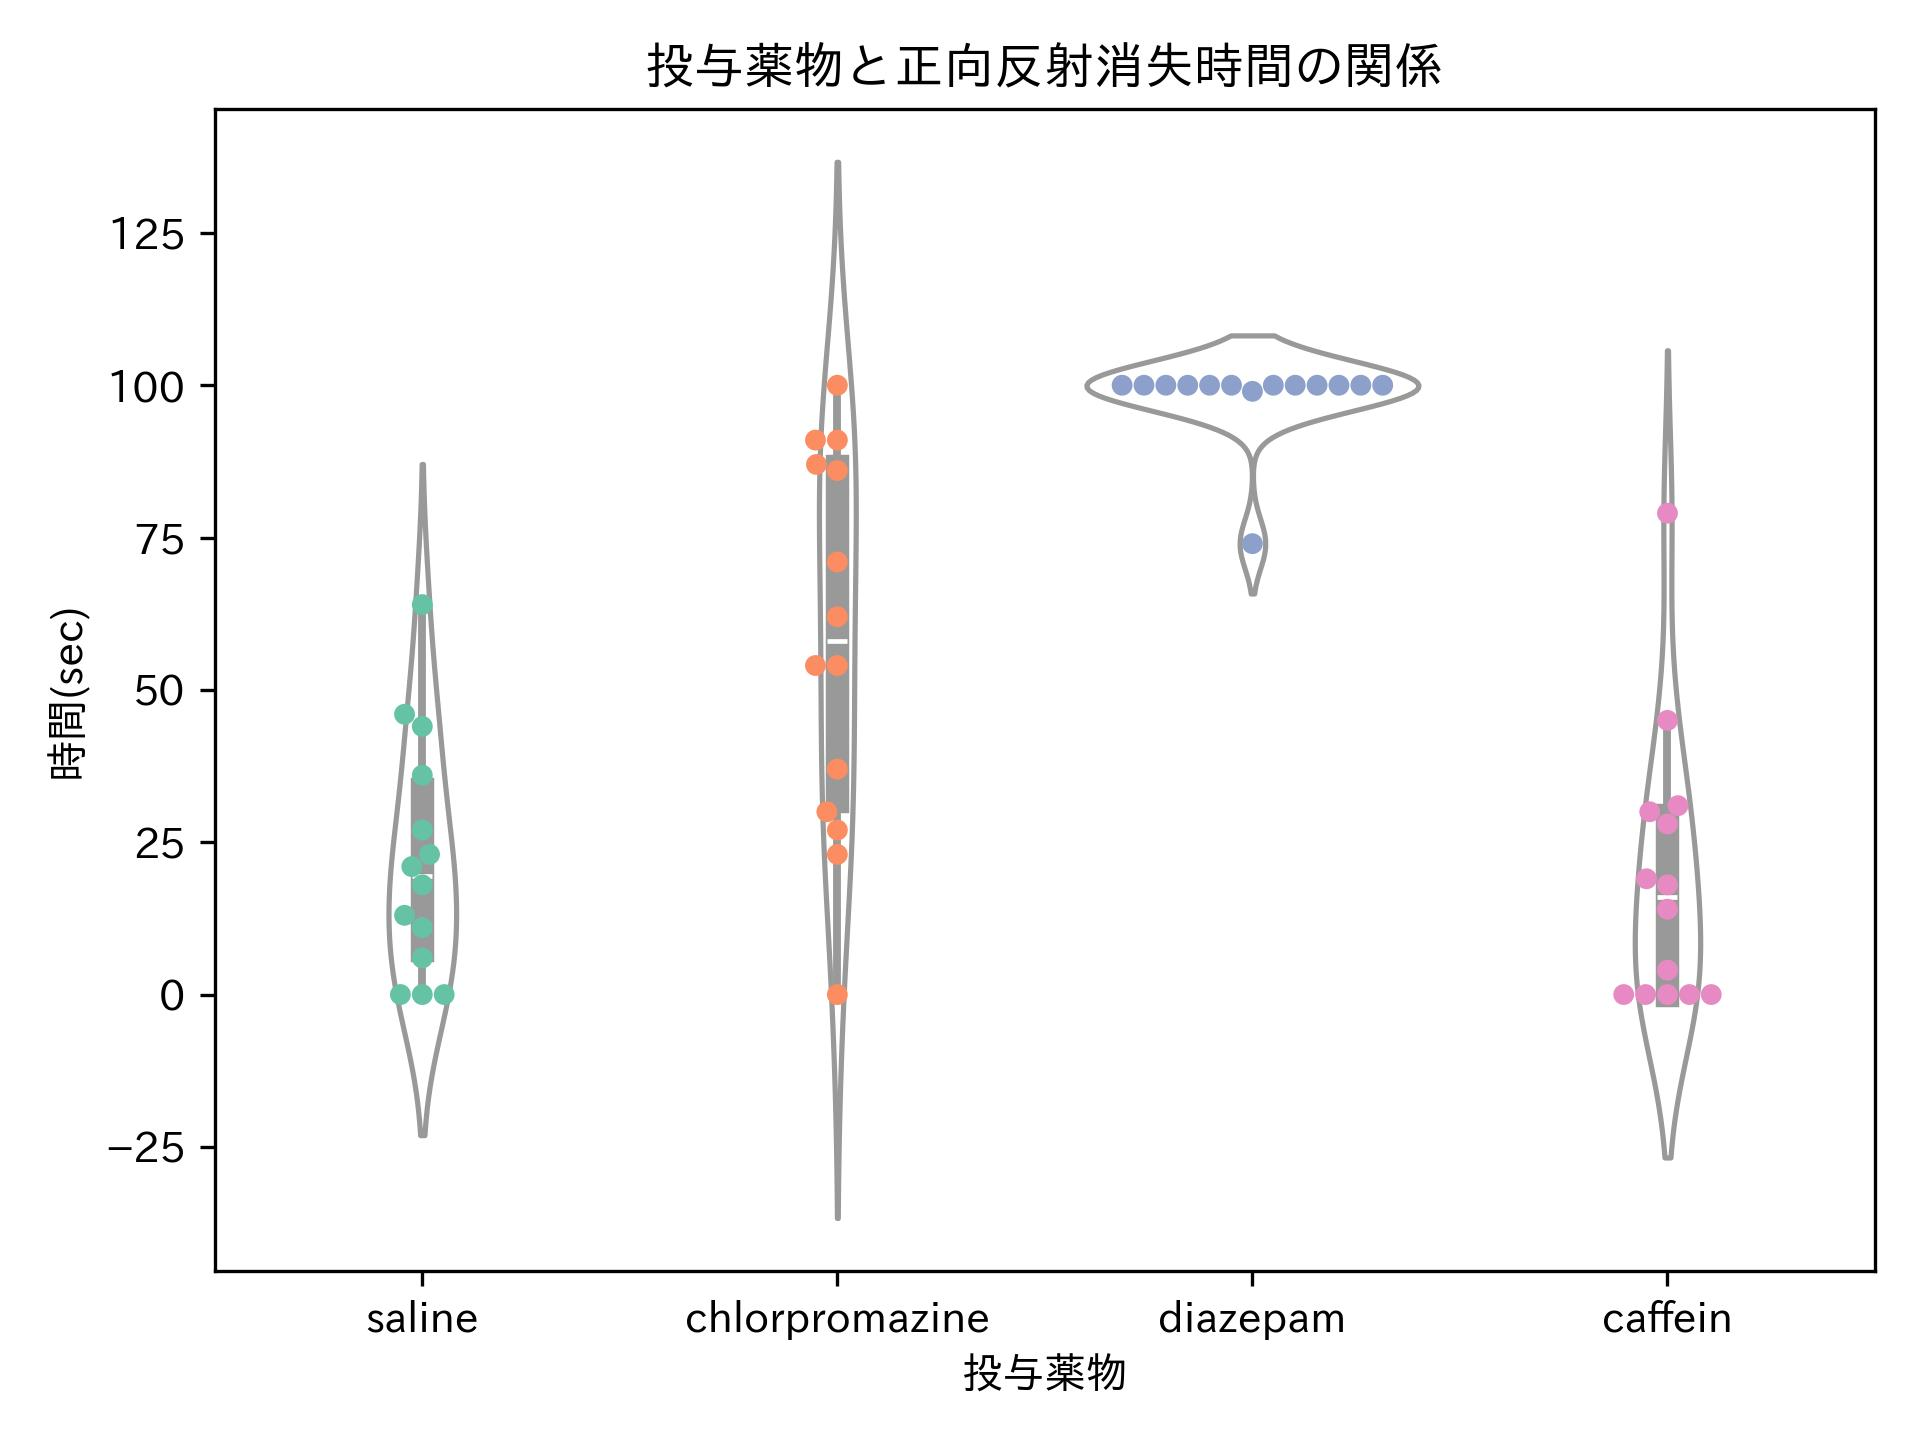
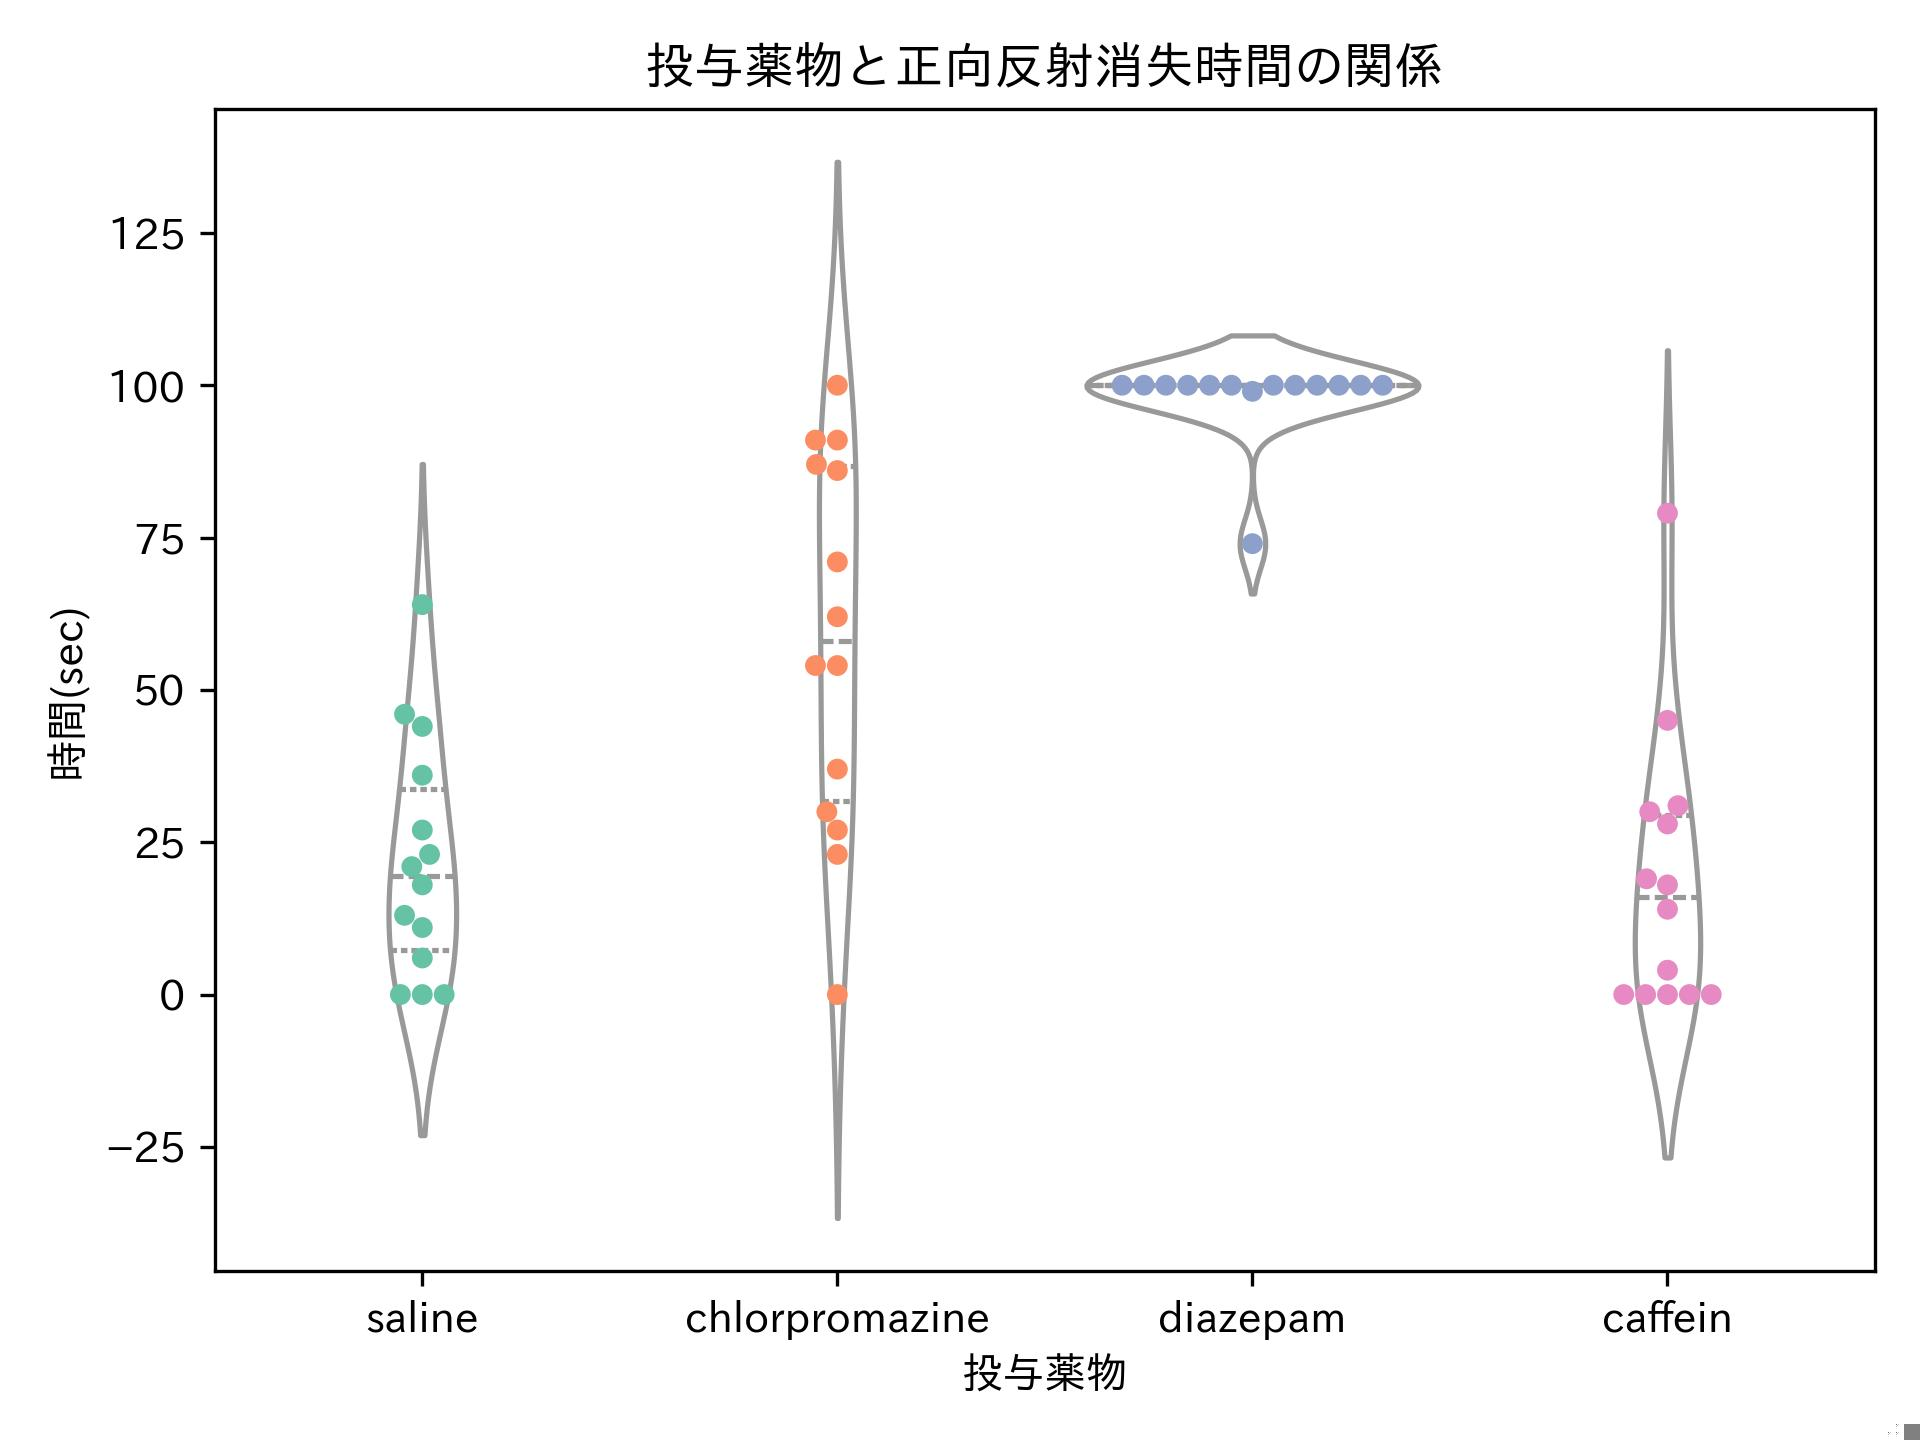
Changes

diff --git a/tools/exp1.py b/tools/exp1.py
@@ -8,8 +8,8 @@ warnings.simplefilter("ignore")
 
 input = "/Users/kotaro/PycharmProjects/yakusaku_kodo/input/"
 df = pd.read_csv(input + "data_yakusaku_gakusyu.csv").drop('group_num', axis=1)
-# output = "/Users/kotaro/Desktop/yakusaku_output/"
-output = "./output/"
+output = "/Users/kotaro/Desktop/yakusaku_output/"
+# output = "./output/"
 
 def make_label_value(df):
     labels = {}
@@ -43,22 +43,29 @@ def make_dict(df):
     return ret
 
 
-def graph_all(df):
+def graph_all(df, datatype=sns.violinplot):
     dict = make_dict(df)
-    cnt = 0
-    lab = ["獲得","固定","再生"]
-    fig = plt.figure(figsize=(12,5))
+    cnt = 1
+    lab = ["獲得", "固定", "再生"]
+    fig = plt.figure(figsize=(10,10))
+    fig.suptitle("学習実験",size=18)
     order = ["1日目\n生理食塩水", "2日目\n生理食塩水", "1日目\nスコポラミン", "2日目\nスコポラミン"]
     for key in dict:
-        ax = plt.subplot(1, 3, cnt+1)
+        ax = plt.subplot(2, 2, cnt)
         sns.swarmplot(dict[key], x="labels", y="values", order=order, palette="Set2", size=5, legend=False)
-        sns.boxplot(dict[key], x="labels", y="values", color="white", order=order, legend=False)
-        plt.title("実験1(" + lab[cnt] + ")")
+        datatype(dict[key], x="labels", y="values", color="white", order=order, legend=False, inner="quartile")
+        plt.title("実験1(" + lab[cnt-1] + ")", fontsize=13)
         ax.set(xlabel='', ylabel='時間(sec)')
-        plt.xticks(size=5)
+        plt.xticks(size=10)
+        plt.ylim([-20, 350])
+        plt.plot([0.5, 2.5], [320, 320], marker="|", color="black")
+        if cnt == 1:
+            plt.text(1.5, 325, "p < 0.001", color="black", horizontalalignment="center", verticalalignment="bottom")
+        else:
+            plt.text(1.5, 325, "n.s.", color="black", horizontalalignment="center", verticalalignment="bottom")
         cnt += 1
     plt.tight_layout()
-    plt.savefig(output + "実験1_all.jpg", dpi=300)
+    plt.savefig(output + f"実験1_all({str(datatype).split()[-3]}).jpg", dpi=300)
 
 def graphs(df):
     dict = make_dict(df)
@@ -69,7 +76,7 @@ def graphs(df):
         fig = plt.figure()
         ax = plt.subplot(1, 1, 1)
         sns.swarmplot(dict[key], x="labels", y="values", order=order, palette="Set2", size=5)
-        sns.boxplot(dict[key], x="labels", y="values", color="white", order=order)
+        sns.violinplot(dict[key], x="labels", y="values", color="white", order=order, inner="quartile")
         plt.title("実験1(" + lab[cnt] + ")")
         ax.set(xlabel='', ylabel='時間(sec)')
         plt.tight_layout()
@@ -79,6 +86,5 @@ def graphs(df):
 
 
 if __name__ == "__main__":
-    graph_all(df)
-    graphs(df)
-
+    graph_all(df, datatype=sns.violinplot)
+    # print(make_dict(df))

diff --git a/tools/exp2.py b/tools/exp2.py
@@ -7,8 +7,8 @@ warnings.simplefilter("ignore")
 
 input = '/Users/kotaro/PycharmProjects/yakusaku_kodo/input/data_yakusaku_saimin.csv'
 df_exp2 = pd.read_csv(input).drop("group_num", axis=1)
-# output = "/Users/kotaro/Desktop/yakusaku_output/"
-output = "./output/"
+output = "/Users/kotaro/Desktop/yakusaku_output/"
+# output = "/Users/kotaro/PycharmProjects/yakusaku_kodo/output/"
 
 def graph_exp2(df):
     labels = []
@@ -24,17 +24,52 @@ def graph_exp2(df):
 
     fig = plt.figure()
     ax = fig.add_subplot(111)
-    sns.violinplot(df, x="labels", y="values", color="white")
+    sns.violinplot(df, x="labels", y="values", color="white",inner="quartile")
     sns.swarmplot(df, x="labels", y="values", palette="Set2")
     ax.set(xlabel="投与薬物", ylabel="時間(sec)")
     plt.title("投与薬物と正向反射消失時間の関係")
+    plt.plot([0, 1], [140, 140], marker="|", color="k")
+    plt.plot([0, 2], [150, 150], marker="|", color="k")
+    plt.plot([0, 3], [160, 160], marker="|", color="k")
+    plt.text(0.5, 140.7, "p < 0.001", horizontalalignment="center", verticalalignment="bottom")
+    plt.text(1, 150.7, "p < 0.001", horizontalalignment="center", verticalalignment="bottom")
+    plt.text(1.5, 160.7, "n.s.", horizontalalignment="center", verticalalignment="bottom")
 
     plt.tight_layout()
-    plt.savefig(output + '実験2.jpg',dpi=300)
+    plt.savefig(output + '実験2.jpg', dpi=400)
     plt.show()
 
+def make_df(df):
+    labels = []
+    values = []
+
+    for col in df.columns:
+        for i in range(len(df)):
+            labels.append(col)
+            values.append(df.loc[i,col])
+
+    dic = dict(labels=labels, values=values)
+    df2 = pd.DataFrame.from_dict(dic)
+    return df2
+
+
+from scipy.stats import tukey_hsd
+
+def stat(df):
+    stat_dic = {}
+    for key in df["labels"].unique():
+        stat_dic[key] = list(df[df["labels"] == key]["values"])
+    print(stat_dic)
+    a = tukey_hsd(stat_dic['saline'],stat_dic['chlorpromazine'],stat_dic['diazepam'],stat_dic['caffeine'])
+    print(a)
+    return a
+
+
 if __name__ == '__main__':
+    df2 = make_df(df_exp2)
     graph_exp2(df_exp2)
+    # stat(df2)
+    # print(stat(df2).pvalue)
 
 
 

diff --git a/tools/writhing.py b/tools/writhing.py
@@ -7,6 +7,7 @@ from scipy import stats
 import scipy.stats as sps
 import itertools as it
 import warnings
+
 warnings.simplefilter("ignore")
 import numpy as np
 
@@ -26,14 +27,16 @@ df = pd.DataFrame(dic)
 
 fig = plt.figure()
 sns.swarmplot(data=df, x='labels', y='values', palette="Set2", size=4)
-sns.violinplot(data=df, x='labels', y='values', color="white")
+sns.violinplot(data=df, x='labels', y='values', color="white", inner="quart")
 plt.title("投与薬剤ごとのWrithing応答回数")
 plt.xlabel("投与薬剤")
-plt.ylabel("Writhing応答(回)")
-plt.plot([0, 1],[77, 77],marker="|",color="k")
-plt.plot([0, 2],[83, 83],marker="|",color="k")
-plt.text(0.5,77.7,"p < 0.001",horizontalalignment="center",verticalalignment="bottom")
-plt.text(1,83.7,"p < 0.001",horizontalalignment="center",verticalalignment="bottom")
+plt.ylabel("Writhing応答(回/10分)")
+plt.plot([1, 2], [72, 72], marker="|", color="k")
+plt.plot([0, 1], [77, 77], marker="|", color="k")
+plt.plot([0, 2], [83, 83], marker="|", color="k")
+plt.text(1.5, 72.7, "p < 0.05", horizontalalignment="center", verticalalignment="bottom")
+plt.text(0.5, 77.7, "p < 0.001", horizontalalignment="center", verticalalignment="bottom")
+plt.text(1, 83.7, "p < 0.001", horizontalalignment="center", verticalalignment="bottom")
 plt.ylim([-18, 90])
 
 plt.tight_layout()
@@ -42,8 +45,13 @@ plt.show()
 
 stat = {}
 
-for key in ["saline","morphine","ibuprofen"]:
-    stat[key] = df[(df["labels"]==key)&(~df["values"].isna())]["values"].values
+for key in ["saline", "morphine", "ibuprofen"]:
+    stat[key] = df[(df["labels"] == key) & (~df["values"].isna())]["values"].values
 
 from scipy.stats import tukey_hsd
-print(tukey_hsd(stat["saline"],stat["morphine"],stat["ibuprofen"]))
+
+print(tukey_hsd(stat["saline"], stat["morphine"], stat["ibuprofen"]))
+
+print(f"saline  平均:{stat['saline'].mean():.3f}  分散:{stat['saline'].std()**2:.3f}")
+print(f"morphine  平均:{stat['morphine'].mean():.3f}  分散:{stat['morphine'].std()**2:.3f}")
+print(f"ibuprofen  平均:{stat['ibuprofen'].mean():.3f}  分散:{stat['ibuprofen'].std()**2:.3f}")

diff --git a/tools/exp3.py b/tools/exp3.py
@@ -119,11 +119,11 @@ print(results)
 print(results2)
 
 col_labels = ['molphine', 'molphine\n+naloxone', 'ibuprofen']
-row_labels = ['15sec', '30sec', '60sec', "90sec"]
+row_labels = ['15min', '30min', '60min', "90min"]
 
-color_high = "#ff8989"
+color_high = "#ff7f7f"
 color_medium = "#ffb2b2"
-color_low = "#ffdbdb"
+color_low = "#ffc1c1"
 
 fig = plt.figure(figsize=(10, 5))
 gs_master = GridSpec(nrows=2, ncols=2, height_ratios=[20, 1])
@@ -141,9 +141,9 @@ for i in range(0, 3):
     for j in range(1, 5):
         if results[j-1, i] > sps.chi2.ppf(q=0.999, df=1):
             table[(j, i)].set_facecolor(color_high)
-        if results[j-1, i] > sps.chi2.ppf(q=0.99, df=1):
+        elif results[j-1, i] > sps.chi2.ppf(q=0.99, df=1):
             table[(j, i)].set_facecolor(color_medium)
-        if results[j-1, i] > sps.chi2.ppf(q=0.95, df=1):
+        elif results[j-1, i] > sps.chi2.ppf(q=0.95, df=1):
             table[(j, i)].set_facecolor(color_low)
 table.auto_set_font_size(False)
 table.set_fontsize(12)
@@ -163,9 +163,9 @@ for i in range(0, 3):
     for j in range(1, 5):
         if results[j-1, i] > sps.chi2.ppf(q=0.999, df=1):
             table[(j, i)].set_facecolor(color_high)
-        if results[j-1, i] > sps.chi2.ppf(q=0.99, df=1):
+        elif results[j-1, i] > sps.chi2.ppf(q=0.99, df=1):
             table[(j, i)].set_facecolor(color_medium)
-        if results[j-1, i] > sps.chi2.ppf(q=0.95, df=1):
+        elif results[j-1, i] > sps.chi2.ppf(q=0.95, df=1):
             table[(j, i)].set_facecolor(color_low)
 table.auto_set_font_size(False)
 table.set_fontsize(12)

diff --git a/tools/exp1_rev.py b/tools/exp1_rev.py
@@ -1,0 +1,50 @@
+import pandas as pd
+import seaborn as sns
+import matplotlib.pyplot as plt
+import re
+import japanize_matplotlib
+import numpy as np
+import warnings
+warnings.simplefilter("ignore")
+import sys
+from scipy.stats import tukey_hsd
+
+input = "/Users/kotaro/PycharmProjects/yakusaku_kodo/input/"
+df = pd.read_csv(input + "data_yakusaku_gakusyu.csv").drop('group_num', axis=1)
+output = "/Users/kotaro/Desktop/"
+
+print(df)
+
+
+dic = {}
+
+labs = ["att", "fix", "rev"]
+days = ["day1", "day2"]
+groups = ["sa", "sco"]
+
+for key in labs:
+    dic[key] = {}
+    for group in groups:
+        dic[key][group] = {}
+        for day in days:
+            for col in df.columns:
+                if (key in col) & (day in col) & (group in col):
+                    dic[key][group][day] = list(df[col])
+# print(dic)
+
+diff = {}
+for lab in labs:
+    diff[lab] = {}
+    for group in groups:
+        diff[lab][group] = {}
+
+
+for lab in labs:
+    for group in groups:
+        diff[lab][group] = (np.array(list(dic[lab][group]["day2"])) - np.array(list(dic[lab][group]["day1"])))
+
+for lab in labs:
+    print(tukey_hsd(diff[lab]["sa"], diff[lab]["sco"]))
+
+
+

diff --git a/tools/exp3_graph.py b/tools/exp3_graph.py
@@ -43,7 +43,7 @@ ind_line = np.sort(np.concatenate([ind_p, ind_m]))
 cnt = 1
 fig = plt.figure(figsize=(12, 5))
 fig.suptitle("投与薬剤と鎮痛効果の関係", fontsize=15)
-fig.supxlabel("時間(sec)")
+fig.supxlabel("時間(min)")
 fig.supylabel("匹")
 for key in keys:
     ax = fig.add_subplot(1, 4, cnt)
